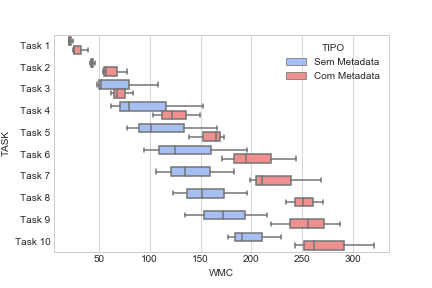
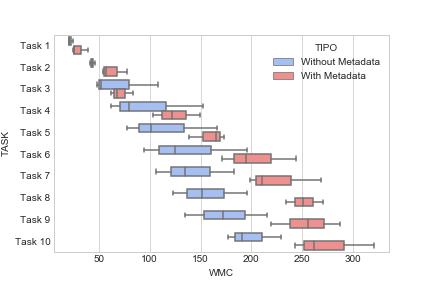
Update

Changed region(s): [[0.6319, 0.1562, 0.9028, 0.2812]]

diff --git a/FindMetrics/noob.py b/FindMetrics/noob.py
@@ -1,7 +1,6 @@
 #!/usr/bin/env python2
 # -*- coding: utf-8 -*-
 import csv
-import numpy as np
 import matplotlib.pyplot as plt
 import seaborn as sns
 import pandas as pd
@@ -30,9 +29,9 @@ def plotLineGraf(hashMap,labelx,labely):
     for key, value in hashMap.items():
         x = key.split('/')
         if "Nardes" in key:
-            plt.plot(value, label="Com Metadata", color='Red')
+            plt.plot(value, label="With Metadata", color='Red')
         elif "Guerra" in key:
-            plt.plot(value, label="Sem Metadata", color='Blue')
+            plt.plot(value, label="Without Metadata", color='Blue')
         elif "exp1groupA" in key:
             plt.plot(value, color='Blue')
         elif "exp1groupB" in key:
@@ -44,62 +43,20 @@ def plotLineGraf(hashMap,labelx,labely):
     plt.show()
 
 
-def calcularMedia(hashElement):
-    print"nao implementado"
-    i = 0
-    list = []
-    
-    for key, value in hashElement.items():
-        list.append(value)
-        i=i+1
-    
-    arr = list[0]
-    
-    for x in range(1, len(list)):
-        for z in range(0, len(list[x])):
-            arr[z]= arr[z] +list[x][z]
+def generateIncrement(hashMap):
+    dic ={}
+    for key, value in hashMap.items():
+        obj = list()
+        tamanho = len(value)
+        for x in range(0, tamanho):
+            if x>0:
+                obj.append(value[x]-value[x-1])
+            else:
+                obj.append(value[x])
+       
+        dic.setdefault(key, obj)
         
-    
-    for x in range(0, len(arr)):
-        arr[x] = arr[x]/i
-    return arr
-    
-
-def calcularDp(hashElement):
-    print"nao implementado"
-    
-    a = []
-    
-    #a =[[1,2,3],[1,2,3]]
-    
-    c  = 0
-    
-    for key, value in hashElement.items():
-        print value
-        a[c].append(value)        
-        c = c+1
-    
-    aInv = []
-    
-    print len(aInv)
-    
-    print len(a)
-    
-    for x in range(0, len(aInv)):
-        print "x    "+ str(x)    
-        value = []
-        for y in range(0, len(a)):
-            print "YYYYY   "+str(y)
-            b = a[y]
-            
-            #print(b)
-            value.append(b[x])
-        print value
-        aInv[x].append(value)
-    
-    print aInv
-    return aInv
-
+    return dic
     
 
 def plotBarGraf(hash,figname,a, b,c):
@@ -108,39 +65,69 @@ def plotBarGraf(hash,figname,a, b,c):
         for x in range(0, len(value)):
             y = x + 1
             if "Nardes" in key:
-                pdd.loc[len(pdd)] = ['Com Metadata', "Task " + str(y), value[x]]
+                pdd.loc[len(pdd)] = ['With Metadata', "Task " + str(y), value[x]]
             elif "Guerra" in key:
-                pdd.loc[len(pdd)] = ['Sem Metadata', "Task " + str(y), value[x]]
+                pdd.loc[len(pdd)] = ['Without Metadata', "Task " + str(y), value[x]]
             elif "exp1groupA" in key:
-                pdd.loc[len(pdd)] = ['Sem Metadata', "Task " + str(y), value[x]]
+                pdd.loc[len(pdd)] = ['Without Metadata', "Task " + str(y), value[x]]
             elif "exp1groupB" in key:
-                pdd.loc[len(pdd)] = ['Com Metadata', "Task " + str(y), value[x]]
+                pdd.loc[len(pdd)] = ['With Metadata', "Task " + str(y), value[x]]
     
     sns.set_style("whitegrid")
 
     flatui = ["#99bbff", "#ff8080"]
     sns.set_palette(flatui)
-    #sns.palplot(sns.color_palette())    
     ax = sns.boxplot(x=c, y="TASK", hue="TIPO", data=pdd)
     ax.get_figure().savefig(figname)
     ax.get_figure().clf()
-
     
-    
+def xdivy(hash1,hash2):
+    f={}
+    z = len(hash1)
+    print z
+    return f
     
 
 listCsv = list()
-hashMap={}
+
+loc={}
+
 ReadCsv(listCsv)
 tamanho = len(listCsv)
-getFieldList(listCsv, list, hashMap, tamanho, 2)
-plotLineGraf(hashMap,"Commits","Loc")
-
-hashMap2={}
-getFieldList(listCsv, list, hashMap2, tamanho, 3)
-plotLineGraf(hashMap2,"Commits","WMC")
+getFieldList(listCsv, list, loc, tamanho, 2)
+plotLineGraf(loc,"Commits","Loc")
+plotBarGraf(loc,"loc.png","TIPO","TASK","LOC")
 
 
-plotBarGraf(hashMap,"loc.png","TIPO","TASK","LOC")
 
-plotBarGraf(hashMap2,"wmc.png","TIPO","TASK","WMC")
+wmc={}
+getFieldList(listCsv, list, wmc, tamanho, 3)
+plotLineGraf(wmc,"Commits","WMC")
+plotBarGraf(wmc,"wmc.png","TIPO","TASK","WMC")
+
+cbo={}
+getFieldList(listCsv, list, cbo, tamanho, 4)
+plotLineGraf(wmc,"Commits","CBO")
+plotBarGraf(wmc,"cbo.png","TIPO","TASK","CBO")
+
+lcom={}
+getFieldList(listCsv, list, lcom, tamanho, 5)
+plotLineGraf(wmc,"Commits","LCOM")
+plotBarGraf(wmc,"lcom.png","TIPO","TASK","LCOM")
+
+nom={}
+getFieldList(listCsv, list, nom, tamanho, 5)
+plotLineGraf(wmc,"Commits","NOM")
+plotBarGraf(wmc,"nom.png","TIPO","TASK","NOM")
+
+nof={}
+getFieldList(listCsv, list, nom, tamanho, 5)
+plotLineGraf(wmc,"Commits","NOF")
+plotBarGraf(wmc,"nof.png","TIPO","TASK","NOF")
+
+zzz = xdivy(wmc,nom)
+
+
+incremento = generateIncrement(loc)
+
+plotBarGraf(incremento,"incremento.png","TIPO","TASK","INCREMENTO")
